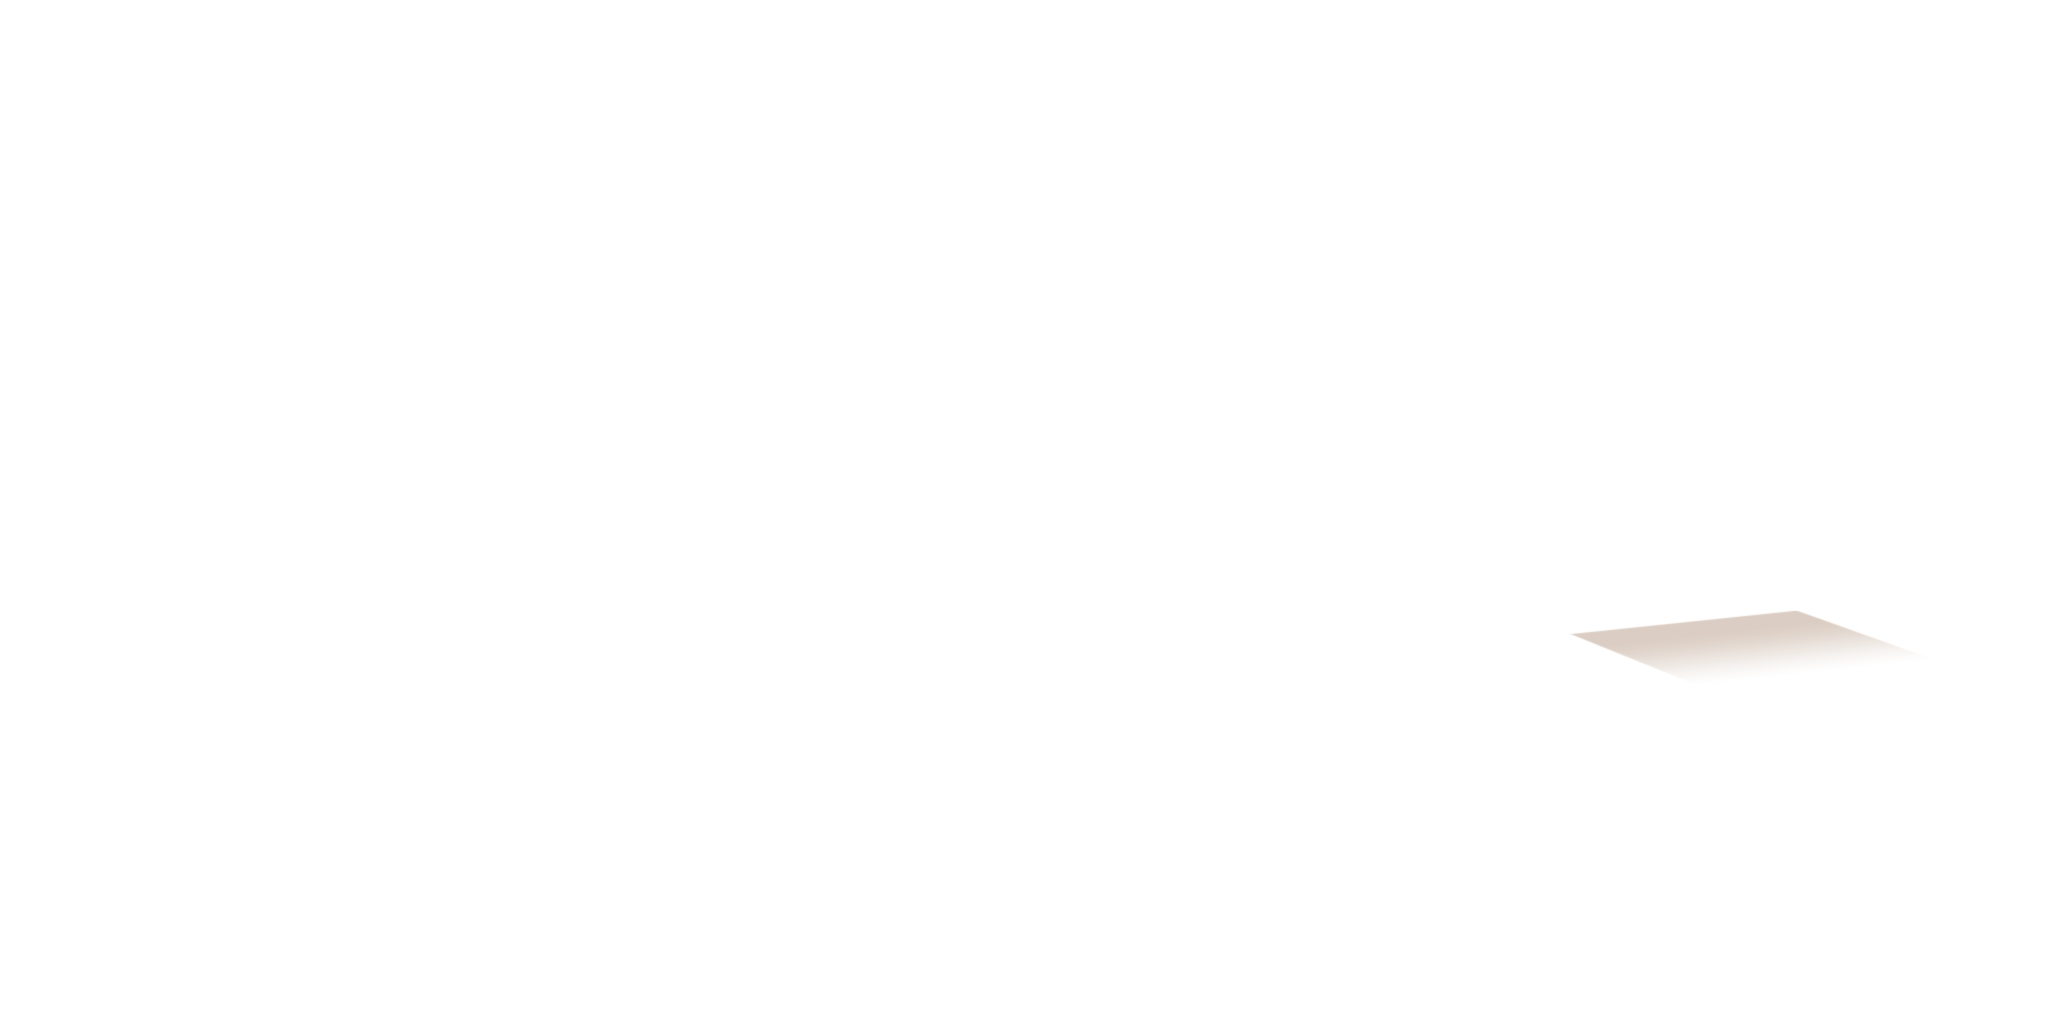
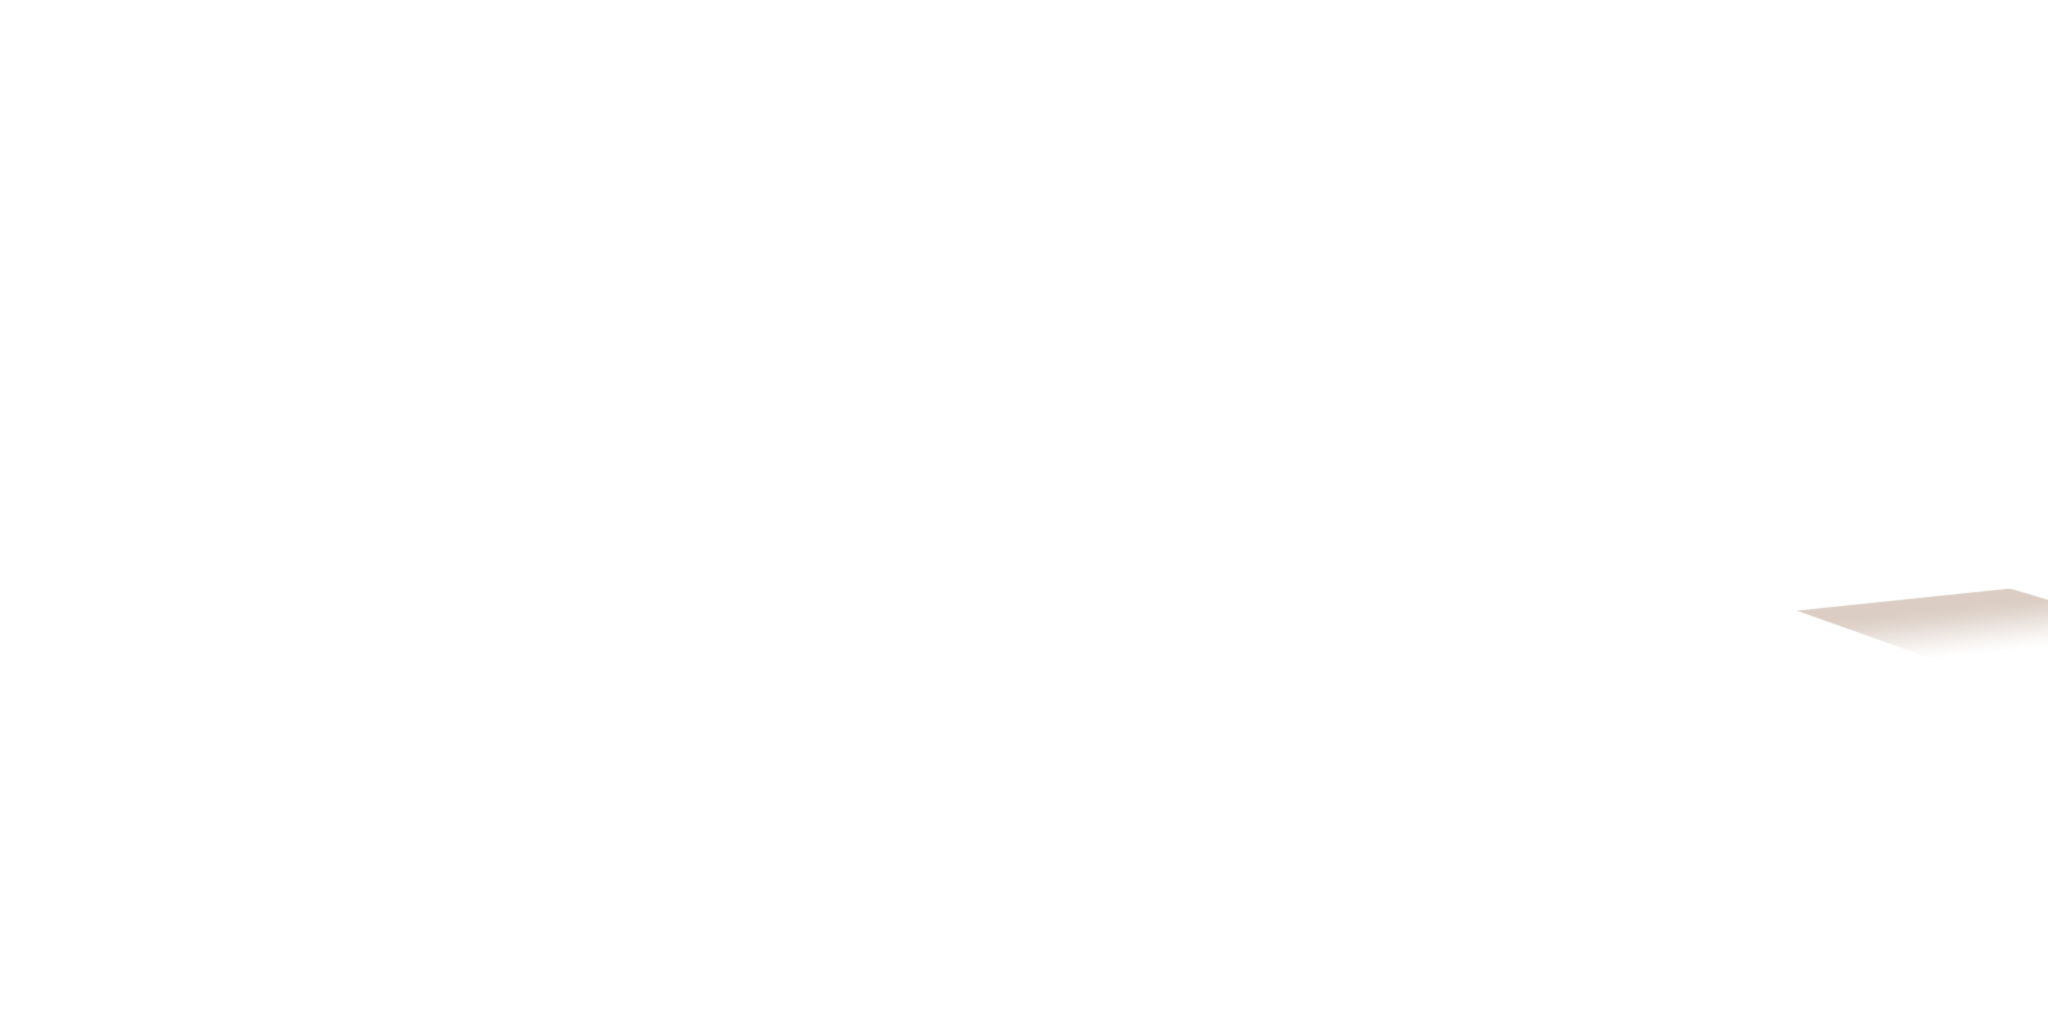
Corrección para el problema de las sombras de módulo seleccionado.

Changed region(s): [[0.7812, 0.5592, 1.0, 0.6524]]

diff --git a/Catalog Cabinets/Drawers/IWDrawerCabinet.m b/Catalog Cabinets/Drawers/IWDrawerCabinet.m
@@ -114,7 +114,7 @@
     
     if (_doAnimate) {
         filename = [NSString stringWithFormat:mask, modelCode, modelMask, strSufix, cabinet.top.code, @"TR", @"", position, strSufix];
-        NSString *filename2 = [NSString stringWithFormat:@"%@-%@-%ld%@", modelCode, modelMask, (long)position, strSufix];
+        NSString *filename2 = [NSString stringWithFormat:@"%@-%@%@-%ld%@", modelCode, modelMask, strSufix, (long)position, strSufix];
         [self addLayer:filename2];
         UIView *trView = [self addLayer:filename];
         [UIView animateWithDuration:0.3 animations:^(void) {
@@ -189,7 +189,6 @@
                 [self addLayer:filename];
                 filename = [NSString stringWithFormat:@"%@-%luD-%@-S", cabinet.model.code, cabinet.colors.count, cabinet.side.code];
                 [self addLayer:filename];
-               // filename = [NSString stringWithFormat:@"%@-%luD-29-T%@-V", cabinet.model.code, cabinet.colors.count, cabinet.interiorColor.code];
                 [self addLayer:filename];
             }
             [self addLayer:filename];
